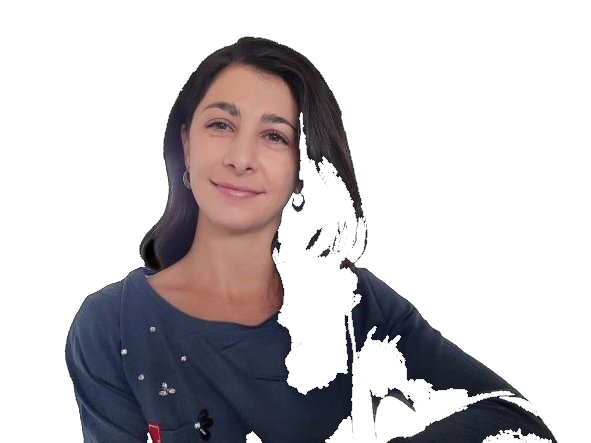
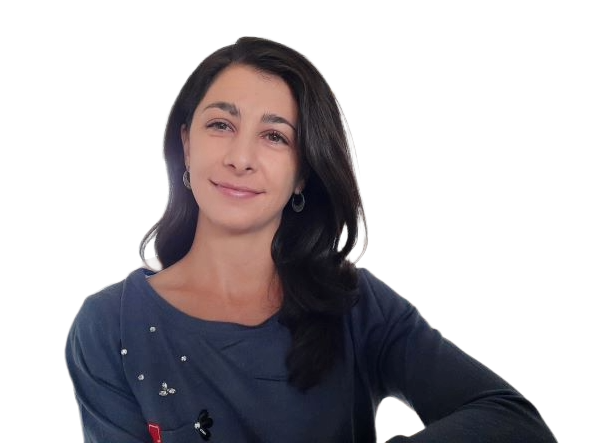
Fix spacing between vertical dividers and text, update Lucía photo
Add left padding to values and why-cards so text doesn't sit flush
against vertical border lines. Replace Lucía's portrait with the
correct background-removed transparent version.

diff --git a/index.html b/index.html
@@ -242,6 +242,7 @@
   .value{
     padding:28px 36px 28px 0;border-right:1px solid var(--line);
   }
+  .value + .value{padding-left:36px}
   .value:last-child{border-right:0;padding-right:0}
   @media (max-width:920px){
     .value:nth-child(2n){border-right:0;padding-right:0}
@@ -250,6 +251,7 @@
   }
   @media (max-width:560px){
     .value{border-right:0;padding:24px 0;border-bottom:1px solid var(--line)}
+    .value + .value{padding-left:0}
     .value:last-child{border-bottom:0}
   }
   .value .arr{font-family:'DM Serif Display';color:var(--teal);font-size:22px;font-style:italic;display:block;margin-bottom:10px}
@@ -324,6 +326,7 @@
   @media (max-width:920px){.why-grid{grid-template-columns:1fr 1fr}}
   @media (max-width:560px){.why-grid{grid-template-columns:1fr}}
   .why-card{padding:36px 44px 36px 0;border-right:1px solid var(--line)}
+  .why-card + .why-card{padding-left:44px}
   .why-card:last-child{border-right:0;padding-right:0}
   @media (max-width:920px){
     .why-card:nth-child(2){border-right:0;padding-right:0}
@@ -331,6 +334,7 @@
   }
   @media (max-width:560px){
     .why-card{border-right:0;padding:28px 0;border-bottom:1px solid var(--line)}
+    .why-card + .why-card{padding-left:0}
     .why-card:last-child{border-bottom:0}
   }
   .why-num{font-family:'DM Serif Display';font-size:64px;line-height:1;color:var(--teal)}